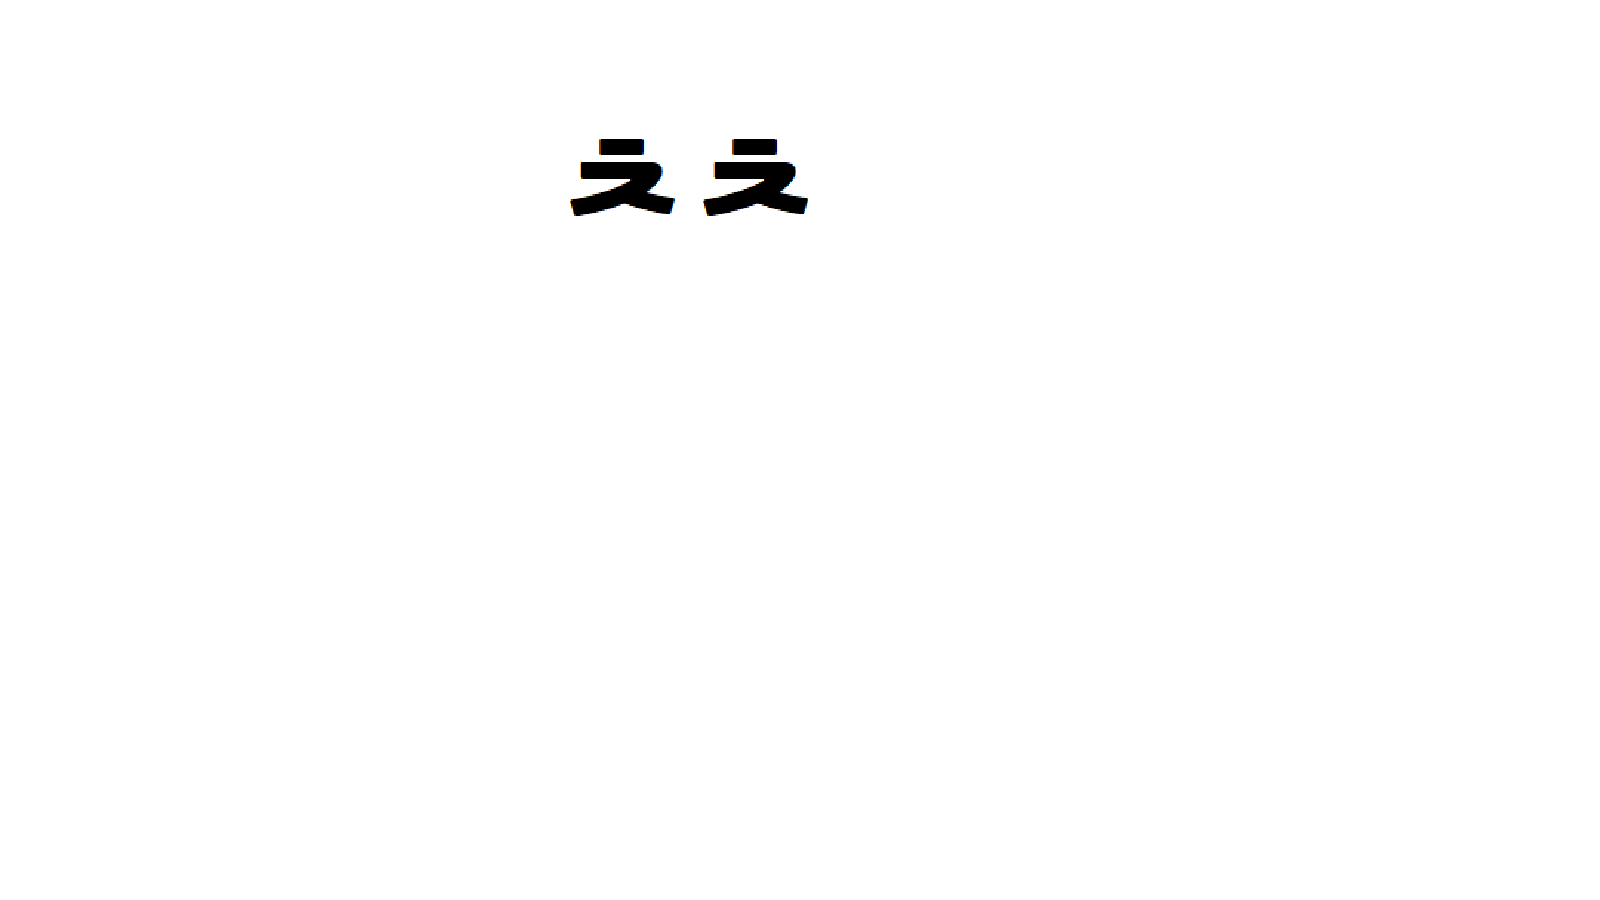
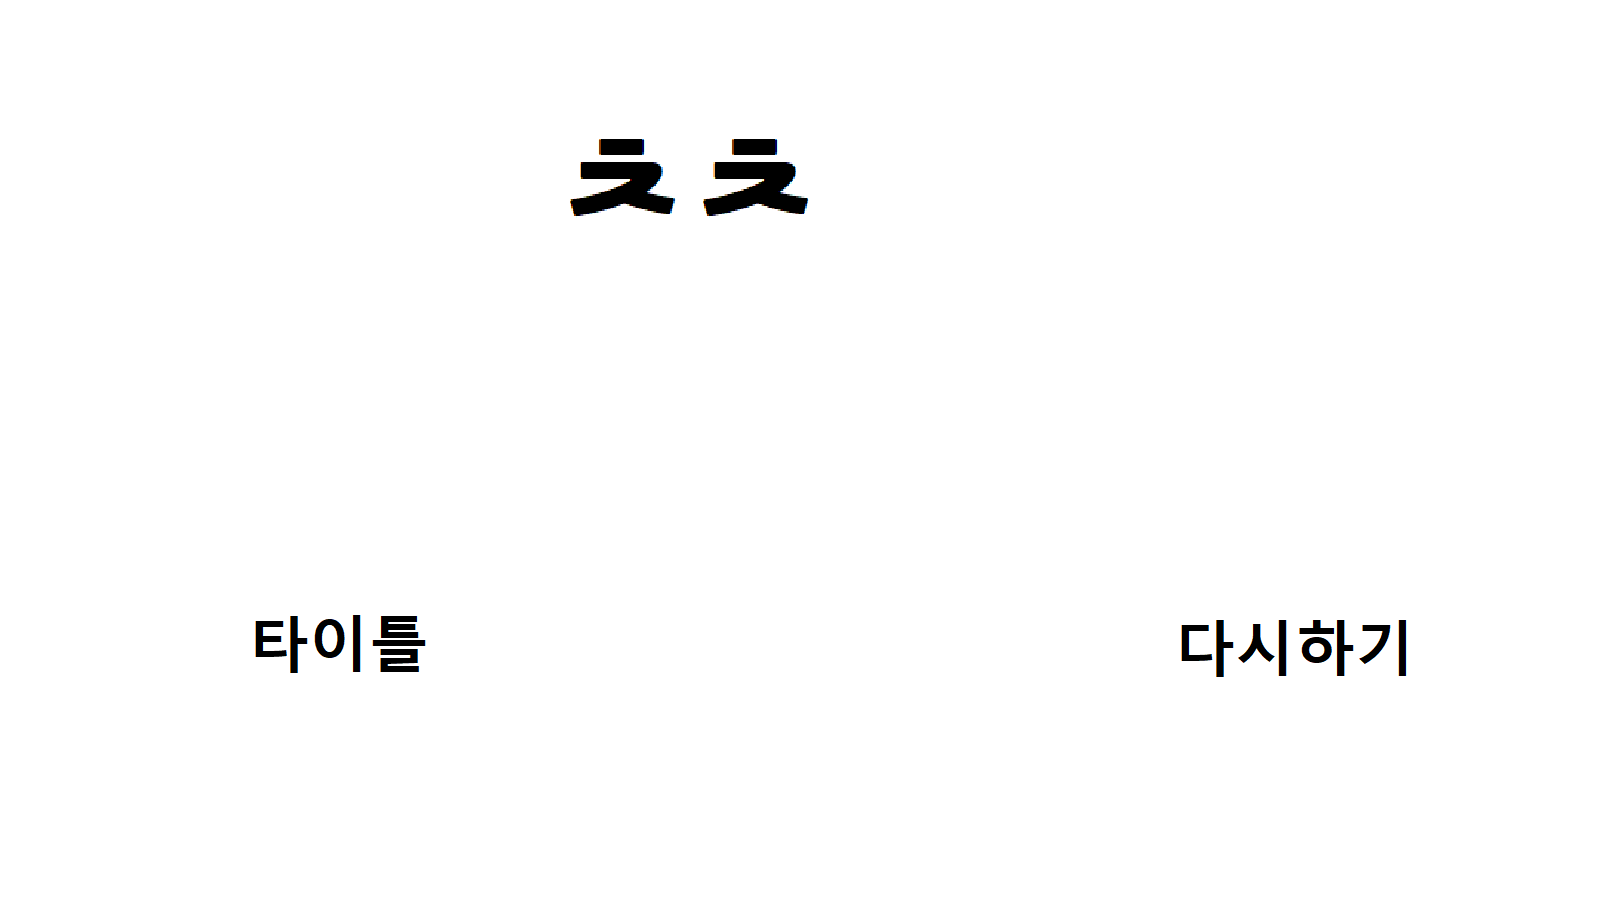
#01

Changed region(s): [[0.7188, 0.6844, 0.9062, 0.7467], [0.1562, 0.6844, 0.2812, 0.7467]]

diff --git a/Credit.cpp b/Credit.cpp
@@ -1,0 +1,22 @@
+#include "DXUT.h"
+#include "Credit.h"
+
+void Credit::Init()
+{
+	OBJ->Add(new Mouse, "Mouse");
+	bg = IMG->Add("Credit");
+	Back = new Button(IMG->Add(""), { CENTER.x + 590,CENTER.y + 375 }, "", 250, 70, 0.9, [&]()->void { SCENE->Set("title"); }, false);
+}																					
+
+void Credit::Update()
+{
+}
+
+void Credit::Render()
+{
+	bg->Render();
+}
+
+void Credit::Release()
+{
+}

diff --git a/stdafx.h b/stdafx.h
@@ -30,7 +30,7 @@ const int y_gap = 0;
 
 const RECT RT_ZERO = { 0,0,0,0 };
 
-static bool WIN = true;
+static bool WIN = false;
 static float time_scale = 1;
 static int score = 0;
 
@@ -84,6 +84,7 @@ enum Tag
 #include "Title.h"
 #include "Ingame.h"
 #include "End.h"
+#include "Credit.h"
 
 
 //OBJ

diff --git a/MainGame.cpp b/MainGame.cpp
@@ -9,6 +9,7 @@ void MainGame::Init()
 	SCENE->Add(new Ingame(2), "stage2");
 	SCENE->Add(new End(1), "clear");
 	SCENE->Add(new End(2), "fail");
+	SCENE->Add(new Credit, "Credit");
 	
 	SCENE->Set("title");
 }
